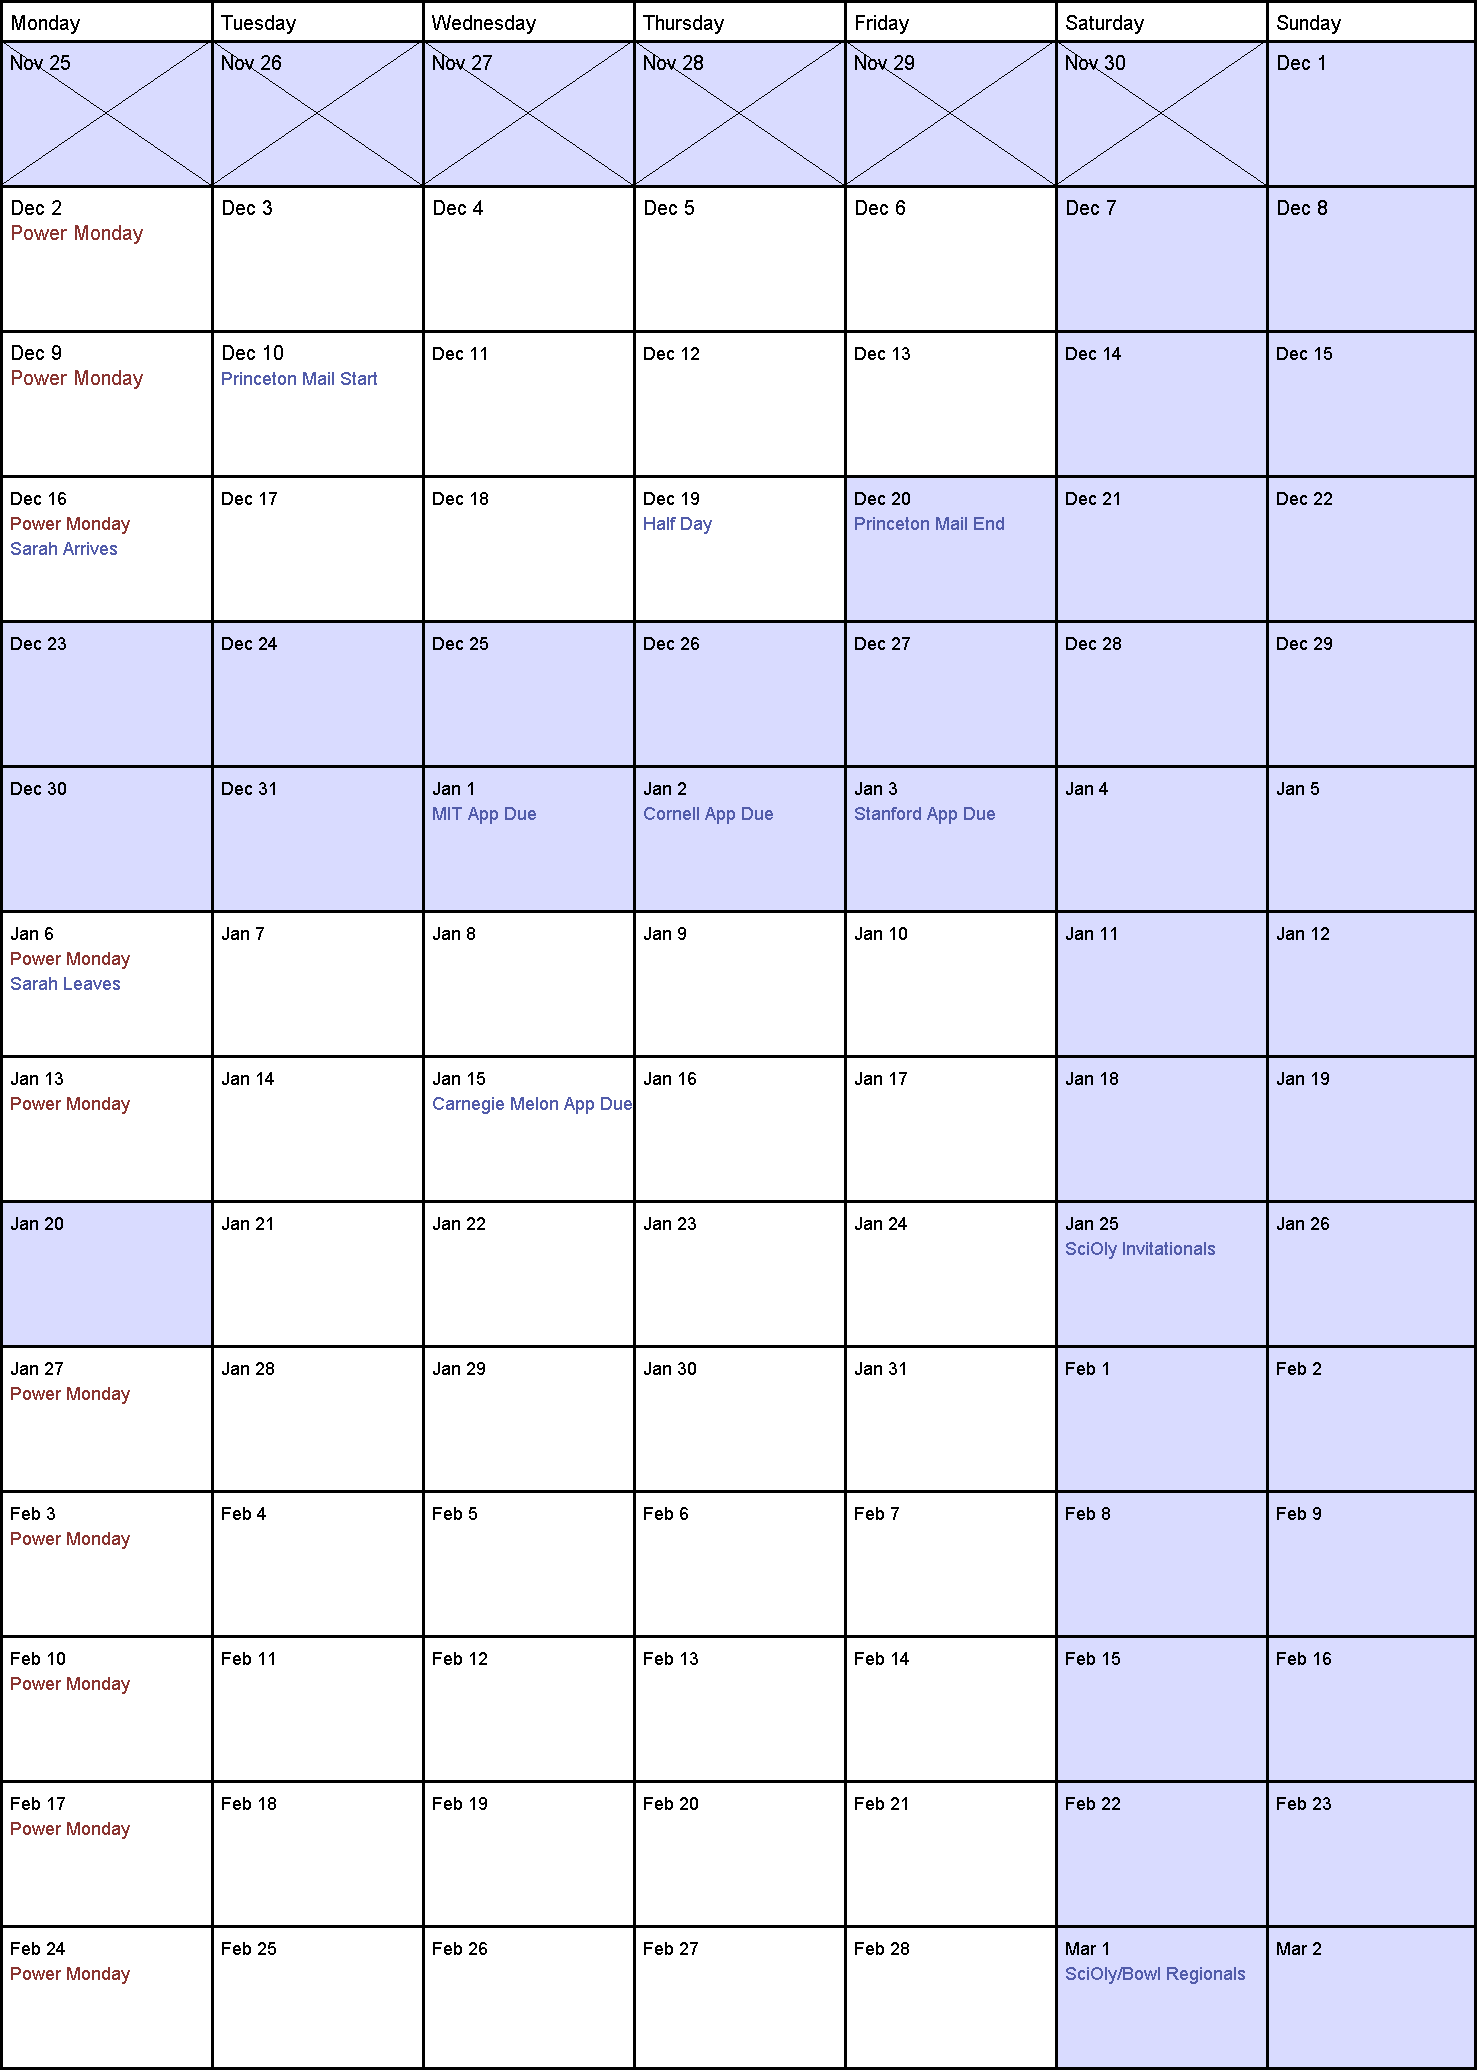
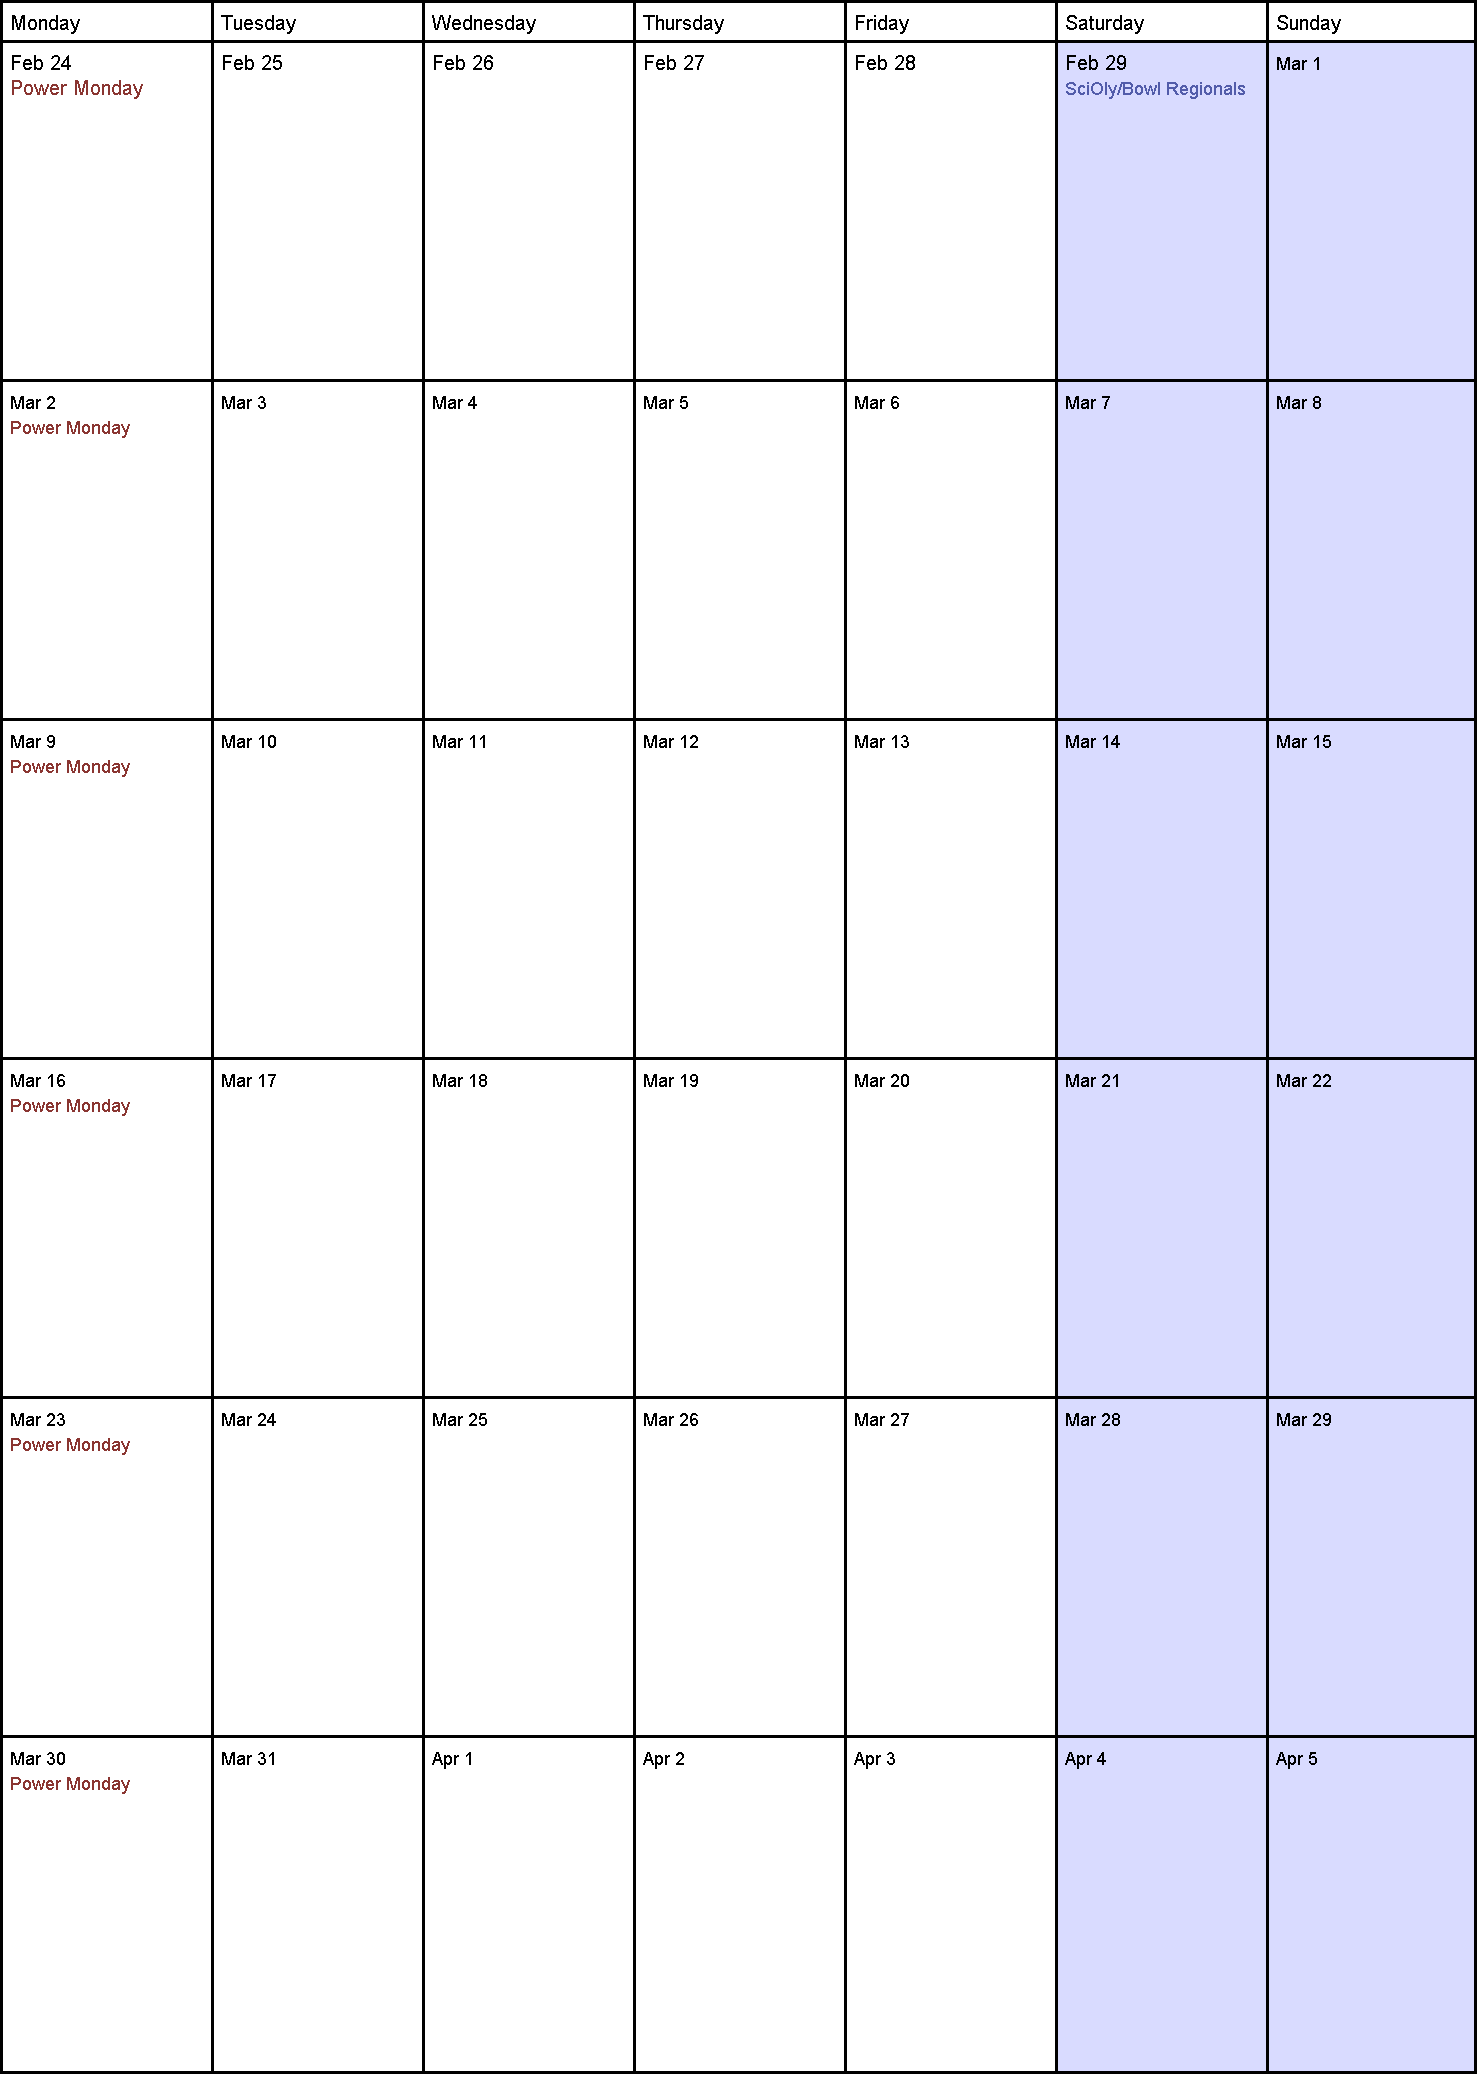
added leapday

diff --git a/src/Calendar.java b/src/Calendar.java
@@ -84,11 +84,10 @@ public class Calendar extends Applet implements Runnable, KeyListener {
     //           ADD EVENTS TO THE CALENDAR
     public void addEvents(){
         addWeeklyEvents();
-        addEvent("Princeton Mail Start", getDayofYear(10,12), 1);
+        addEvent("Princeton Decisions", getDayofYear(12,12), 1);
         addEvent("Half Day", getDayofYear(19,12), 1);
         addEvent("Sarah Arrives", getDayofYear(16,12), 1);
         addEvent("Sarah Leaves", getDayofYear(6,13), 1);
-        addEvent("Princeton Mail End", getDayofYear(20,12), 1);
         addEvent("MIT App Due", getDayofYear(1,13), 1);
         addEvent("Cornell App Due", getDayofYear(2,13), 1);
         addEvent("Stanford App Due", getDayofYear(3,13), 1);
@@ -204,9 +203,10 @@ public class Calendar extends Applet implements Runnable, KeyListener {
         for (int i=0; i<24; i++){
             int j=i;
             if(j>11){j-=12;}
-            if (day-daysPerMonth[j]>0){
+            int dpm=daysPerMonth[j];if (i==13){dpm=dpm+1;}
+            if (day-dpm>0){
                 month=i;
-                day-=daysPerMonth[j];
+                day-=dpm;
             }else {
                 month=j;
                 break;
@@ -244,6 +244,9 @@ public class Calendar extends Applet implements Runnable, KeyListener {
         for (int i=0; i<month-1; i++) {
             if (i >= 12) {
                 d += daysPerMonth[i-12];
+                if (i==14){
+                    d++;
+                }
             } else {
                 d += daysPerMonth[i];
             }
